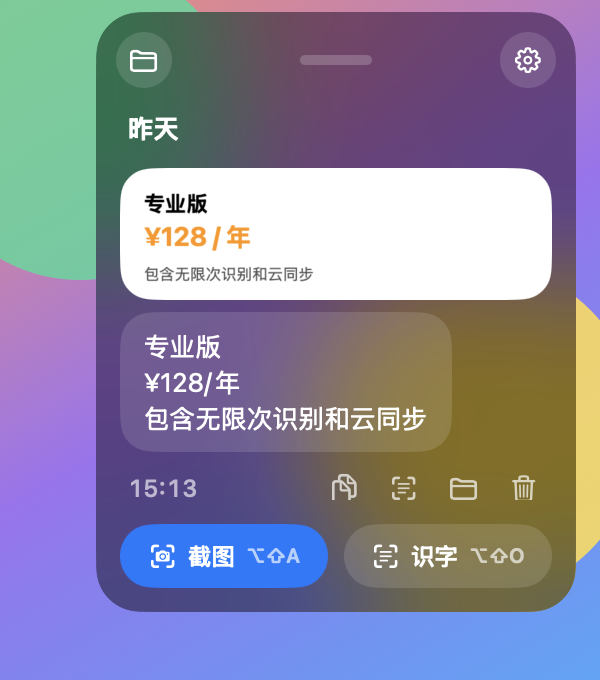
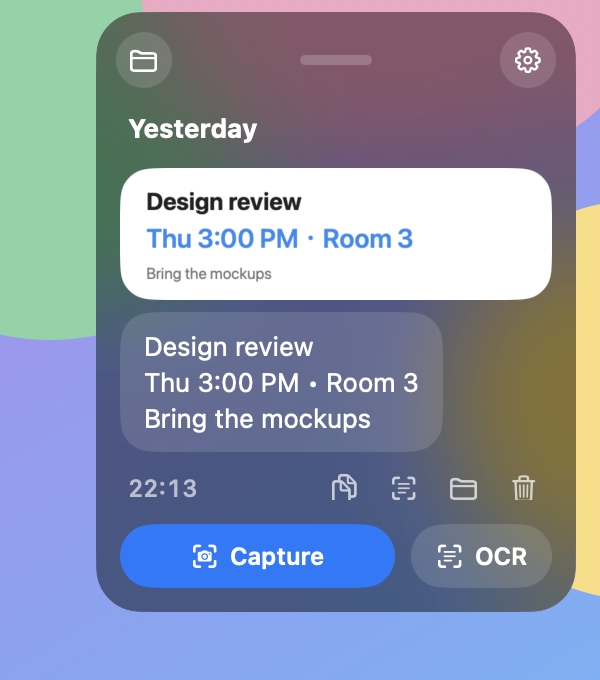
Use an English README and new sample screenshots
README.md is now in English, and the Chinese version moves to
README.zh-CN.md. The panel screenshots use a neutral meeting note as
the sample, in English for the English README and in Chinese for the
Chinese one. --preview now shows the panel on the primary screen so
screenshots come out at Retina resolution with an external display.

diff --git a/Sources/ShotShelf/DevSnapshot.swift b/Sources/ShotShelf/DevSnapshot.swift
@@ -24,14 +24,14 @@ enum DevSnapshot {
         print("Wrote \(output.path)")
     }
 
-    /// Shows the real glass panel (top-right of the main screen) plus a toast for `seconds`.
+    /// Shows the real glass panel (top-right of the primary screen) plus a toast for `seconds`.
     static func preview(seconds: Double, images: [URL], dark: Bool, toast: Bool = true) {
         NSApplication.shared.setActivationPolicy(.accessory)
         let store = makeStore(images: images)
         let host = NSHostingView(rootView: PanelView(store: store, actions: .noop))
         let panel = GlassPanel(content: host, size: PanelView.size)
         panel.appearance = NSAppearance(named: dark ? .darkAqua : .aqua)
-        if let frame = NSScreen.main?.visibleFrame {
+        if let frame = NSScreen.screens.first?.visibleFrame {
             panel.setFrameOrigin(NSPoint(x: frame.maxX - PanelView.size.width - 12,
                                          y: frame.maxY - PanelView.size.height - 6))
         }

diff --git a/README.md b/README.md
@@ -1,99 +1,95 @@
 # ShotShelf
 
-macOS 菜单栏截图小工具：截图自动进剪贴板，留在一个毛玻璃小面板里随时找回；截图时可以打码、识字（离线 OCR）。免费开源。
+English | [简体中文](README.zh-CN.md)
 
-A tiny macOS menu bar screenshot tool: captures go straight to the clipboard and stay in a frosted-glass history panel. Mosaic redaction and offline OCR (Apple Vision) right in the capture toolbar. English and Chinese UI. Free and open source (MIT).
+A tiny macOS menu bar screenshot tool. Every capture goes straight to the clipboard and stays in a frosted-glass history panel, so you can always find it again. Add mosaic to hide details or copy text with offline OCR right while you capture. Free and open source.
 
 <p>
-  <img src="docs/panel-light.png" width="300" alt="浅色模式的截图记录面板">
-  <img src="docs/panel-dark.png" width="300" alt="深色模式的截图记录面板">
+  <img src="docs/panel-light.png" width="300" alt="The screenshot history panel in light mode">
+  <img src="docs/panel-dark.png" width="300" alt="The screenshot history panel in dark mode">
 </p>
 
-## 功能
+## Features
 
-- **截图不再找不到**：截完自动复制到剪贴板，同时存进记录面板，像聊天记录一样按天排列
-- **截图时打码**：框选后点「打码」，拖出要遮住的地方就变成马赛克
-- **截图时识字**：点「识字」把选区里的文字识别出来并复制，中英文混排也能认，全程离线
-- **拖出去就能发**：记录里的图片可以直接拖到微信、桌面等地方
-- **几乎没有存在感**：只在菜单栏有一个图标，不占程序坞；内存约 30 MB
-- **中英文界面**：默认跟随系统语言，也可以在设置里随时切换，立即生效
-- 全局快捷键不需要辅助功能权限；带刘海的 MacBook 上图标被挡住时，用快捷键也能打开面板
+- **Never lose a screenshot**: every capture is copied to the clipboard and saved to the history panel, grouped by day like a chat
+- **Hide details as you capture**: select an area, click Mosaic and drag over anything you want to cover
+- **Copy text from the screen**: click OCR to recognize the text in the selection and copy it. Mixed Chinese and English text works, and everything stays on your Mac
+- **Drag to share**: drag any screenshot from the history into a chat, the desktop or any other app
+- **Stays out of your way**: just a menu bar icon, no Dock icon, and about 30 MB of memory
+- **English and Chinese UI**: follows your system language, and you can switch in Settings at any time without restarting
+- Global shortcuts don't need Accessibility permission. On MacBooks with a notch, use the shortcut to open the panel if the notch hides the menu bar icon
 
-## 下载安装
+## Download
 
-需要 macOS 14 或更新版本，Apple 芯片和 Intel 芯片的 Mac 都能用。
+Requires macOS 14 or later. Works on both Apple silicon and Intel Macs.
 
-1. 到 [Releases](https://github.com/stimQQ/ShotShelf/releases/latest) 下载最新的 `ShotShelf-x.y.z.dmg`
-2. 打开 dmg，把 ShotShelf 拖进「应用程序」
-3. 从「应用程序」里打开 ShotShelf，菜单栏右上角会出现一个取景框图标
+1. Download the latest `ShotShelf-x.y.z.dmg` from [Releases](https://github.com/stimQQ/ShotShelf/releases/latest)
+2. Open the dmg and drag ShotShelf into Applications
+3. Open ShotShelf from Applications. A viewfinder icon appears in the menu bar
 
-安装包已用 Developer ID 签名并经过苹果公证，双击就能打开。
+The app is signed with a Developer ID and notarized by Apple, so it opens with a double-click.
 
-## 从源码构建
+## Build from source
 
-需要 Xcode 或 Command Line Tools（Swift 5.9+）：
+Requires Xcode or the Command Line Tools (Swift 5.9 or later):
 
 ```bash
 git clone https://github.com/stimQQ/ShotShelf.git
 cd ShotShelf
-./build.sh                      # 产物在 build/ShotShelf.app
-open build/ShotShelf.app        # 想常驻可以拖进「应用程序」文件夹
+./build.sh                      # builds build/ShotShelf.app
+open build/ShotShelf.app        # drag it into Applications to keep it
 ```
 
-`build.sh` 会优先用本机钥匙串里的 Apple Development 证书签名，这样重新构建后录屏权限还在；没有证书时退回 ad-hoc 签名，
-每次重新构建后都要在系统设置里把 ShotShelf 的开关关掉再打开一次。
+`build.sh` signs with an Apple Development certificate from your keychain when it finds one, so screen recording permission survives rebuilds. Without a certificate it falls back to ad-hoc signing, and you need to turn ShotShelf off and on again in System Settings after every rebuild.
 
-## 第一次使用
+## First run
 
-第一次截图时，按面板上的提示在「系统设置 › 隐私与安全性 › 录屏与系统录音」里打开 ShotShelf，然后点面板里的「重新启动」。
-macOS 15 可能还会弹窗询问是否允许 ShotShelf 直接访问屏幕，选允许即可。
+The first time you capture, follow the prompt in the panel: open System Settings › Privacy & Security › Screen & System Audio Recording, turn on ShotShelf, then click Relaunch in the panel. macOS 15 may also ask whether ShotShelf can access your screen directly. Choose Allow.
 
-## 用法
+## Usage
 
-| 操作 | 结果 |
+| Action | Result |
 |---|---|
-| `⌥⇧A` | 截图：框选后出现工具条，可以打码、识字，点「完成」复制图片 |
-| `⌥⇧O` | 截图识字：框选后直接识别文字并复制，不出工具条 |
-| `⌥⇧S` | 打开 / 关闭截图记录 |
-| 点菜单栏图标 | 打开截图记录：点图片复制，拖出去发送 |
-| 右键菜单栏图标 | 快捷菜单 |
+| `⌥⇧A` | Capture: select an area, then use the toolbar to add mosaic or copy text. Click Done to copy the image |
+| `⌥⇧O` | Capture Text: select an area and its text is recognized and copied right away, without the toolbar |
+| `⌥⇧S` | Open or close the screenshot history |
+| Click the menu bar icon | Open the history. Click an image to copy it, or drag it out to share |
+| Right-click the menu bar icon | Quick menu |
 
-截图界面（按下快捷键时屏幕会定格）：
+On the capture screen (the display freezes when you press the shortcut):
 
-- 拖动框选区域；不拖直接单击，会选中鼠标下面的整个窗口
-- 选好后可以拖动选区、拖八个圆点调整大小
-- **打码**：打开后在选区里拖动，框住的地方变成马赛克，`⌘Z` 撤销
-- **识字**：识别选区里的文字并复制
-- **完成**：复制图片，也可以按回车、`⌘C` 或双击选区
-- `Esc` 取消；右键清掉当前选区重新选
+- Drag to select an area. Click without dragging to select the whole window under the pointer
+- After selecting, drag the selection to move it, or drag the eight handles to resize it
+- **Mosaic**: turn it on and drag inside the selection to cover areas. `⌘Z` undoes the last mosaic
+- **OCR**: recognize the text in the selection and copy it
+- **Done**: copy the image. You can also press Return, press `⌘C` or double-click the selection
+- `Esc` cancels. Right-click to clear the selection and start over
 
-截图记录面板：左上角打开截图文件夹，右上角齿轮是设置（语言 / Language、开机自动启动、退出）。拖顶部的小横条可以移动面板，它会记住位置。
+In the history panel, the top-left button opens the screenshots folder and the gear opens Settings (Language / 语言, Launch at Login, Quit). Drag the handle at the top to move the panel. It remembers where you put it.
 
-截图后不会自动识别文字，只有点「识字」或在记录里点「复制文字」时才识别。
+Text is never recognized automatically after a capture. It only happens when you click OCR or choose Copy Text in the history.
 
-## 数据和隐私
+## Data and privacy
 
-- 截图存在 `~/Pictures/ShotShelf/`，记录索引在 `~/Library/Application Support/ShotShelf/index.json`
-- 文字识别用的是系统自带的 Vision 框架，在本机完成
-- 不联网，不收集任何数据
+- Screenshots are saved in `~/Pictures/ShotShelf/`, and the history index in `~/Library/Application Support/ShotShelf/index.json`
+- Text recognition uses Apple's built-in Vision framework and runs on your Mac
+- ShotShelf never connects to the internet and collects no data
 
-## 开发
+## Development
 
 ```bash
 swift build
-.build/debug/ShotShelf --ocr some.png                                   # 打印识别结果
-SHOTSHELF_DIR=/tmp/x .build/debug/ShotShelf --snapshot out.png a.png   # 离屏渲染记录面板
-.build/debug/ShotShelf --preview 5 a.png                                # 在屏幕右上角显示几秒真实的毛玻璃面板
-.build/debug/ShotShelf --grab /tmp/x                                    # 定格所有屏幕并测耗时
-.build/debug/ShotShelf --overlay-snapshot out.png full-screen@2x.png    # 离屏渲染截图界面（带打码和工具条）
+.build/debug/ShotShelf --ocr some.png                                   # print the recognized text
+SHOTSHELF_DIR=/tmp/x .build/debug/ShotShelf --snapshot out.png a.png   # render the history panel offscreen
+.build/debug/ShotShelf --preview 5 a.png                                # show the real glass panel at the top right of the primary screen for a few seconds
+.build/debug/ShotShelf --grab /tmp/x                                    # freeze every display and time it
+.build/debug/ShotShelf --overlay-snapshot out.png full-screen@2x.png    # render the capture screen offscreen (with mosaic and toolbar)
 ```
 
-`SHOTSHELF_DIR` 指向一个临时目录，调试时就不会动到真实的截图记录。
+Add `--en` or `--zh` to preview a language without saving the choice, and `--dark` for dark mode. Point `SHOTSHELF_DIR` at a scratch folder so debugging never touches your real screenshot history.
 
-发布安装包用 `./release.sh`：构建通用二进制、用 Developer ID 签名、提交苹果公证，产物是 `dist/ShotShelf-<版本>.dmg`。
-需要钥匙串里有 Developer ID Application 证书，以及一个 notarytool 凭据（用法见脚本开头的注释）。
-应用图标由 `swift tools/make-icon.swift` 生成。
+To build a release, run `./release.sh`. It builds a universal binary, signs it with a Developer ID, submits it to Apple for notarization and writes `dist/ShotShelf-<version>.dmg`. You need a Developer ID Application certificate in your keychain and a notarytool profile (see the comments at the top of the script). The app icon is generated by `swift tools/make-icon.swift`.
 
-## 许可证
+## License
 
 [MIT](LICENSE)

diff --git a/README.zh-CN.md b/README.zh-CN.md
@@ -1,0 +1,99 @@
+# ShotShelf
+
+[English](README.md) | 简体中文
+
+macOS 菜单栏截图小工具：截图自动进剪贴板，留在一个毛玻璃小面板里随时找回；截图时可以打码、识字（离线 OCR）。免费开源。
+
+<p>
+  <img src="docs/panel-light.zh.png" width="300" alt="浅色模式的截图记录面板">
+  <img src="docs/panel-dark.zh.png" width="300" alt="深色模式的截图记录面板">
+</p>
+
+## 功能
+
+- **截图不再找不到**：截完自动复制到剪贴板，同时存进记录面板，像聊天记录一样按天排列
+- **截图时打码**：框选后点「打码」，拖出要遮住的地方就变成马赛克
+- **截图时识字**：点「识字」把选区里的文字识别出来并复制，中英文混排也能认，全程离线
+- **拖出去就能发**：记录里的图片可以直接拖到微信、桌面等地方
+- **几乎没有存在感**：只在菜单栏有一个图标，不占程序坞；内存约 30 MB
+- **中英文界面**：默认跟随系统语言，也可以在设置里随时切换，立即生效
+- 全局快捷键不需要辅助功能权限；带刘海的 MacBook 上图标被挡住时，用快捷键也能打开面板
+
+## 下载安装
+
+需要 macOS 14 或更新版本，Apple 芯片和 Intel 芯片的 Mac 都能用。
+
+1. 到 [Releases](https://github.com/stimQQ/ShotShelf/releases/latest) 下载最新的 `ShotShelf-x.y.z.dmg`
+2. 打开 dmg，把 ShotShelf 拖进「应用程序」
+3. 从「应用程序」里打开 ShotShelf，菜单栏右上角会出现一个取景框图标
+
+安装包已用 Developer ID 签名并经过苹果公证，双击就能打开。
+
+## 从源码构建
+
+需要 Xcode 或 Command Line Tools（Swift 5.9+）：
+
+```bash
+git clone https://github.com/stimQQ/ShotShelf.git
+cd ShotShelf
+./build.sh                      # 产物在 build/ShotShelf.app
+open build/ShotShelf.app        # 想常驻可以拖进「应用程序」文件夹
+```
+
+`build.sh` 会优先用本机钥匙串里的 Apple Development 证书签名，这样重新构建后录屏权限还在；没有证书时退回 ad-hoc 签名，
+每次重新构建后都要在系统设置里把 ShotShelf 的开关关掉再打开一次。
+
+## 第一次使用
+
+第一次截图时，按面板上的提示在「系统设置 › 隐私与安全性 › 录屏与系统录音」里打开 ShotShelf，然后点面板里的「重新启动」。
+macOS 15 可能还会弹窗询问是否允许 ShotShelf 直接访问屏幕，选允许即可。
+
+## 用法
+
+| 操作 | 结果 |
+|---|---|
+| `⌥⇧A` | 截图：框选后出现工具条，可以打码、识字，点「完成」复制图片 |
+| `⌥⇧O` | 截图识字：框选后直接识别文字并复制，不出工具条 |
+| `⌥⇧S` | 打开 / 关闭截图记录 |
+| 点菜单栏图标 | 打开截图记录：点图片复制，拖出去发送 |
+| 右键菜单栏图标 | 快捷菜单 |
+
+截图界面（按下快捷键时屏幕会定格）：
+
+- 拖动框选区域；不拖直接单击，会选中鼠标下面的整个窗口
+- 选好后可以拖动选区、拖八个圆点调整大小
+- **打码**：打开后在选区里拖动，框住的地方变成马赛克，`⌘Z` 撤销
+- **识字**：识别选区里的文字并复制
+- **完成**：复制图片，也可以按回车、`⌘C` 或双击选区
+- `Esc` 取消；右键清掉当前选区重新选
+
+截图记录面板：左上角打开截图文件夹，右上角齿轮是设置（语言 / Language、开机自动启动、退出）。拖顶部的小横条可以移动面板，它会记住位置。
+
+截图后不会自动识别文字，只有点「识字」或在记录里点「复制文字」时才识别。
+
+## 数据和隐私
+
+- 截图存在 `~/Pictures/ShotShelf/`，记录索引在 `~/Library/Application Support/ShotShelf/index.json`
+- 文字识别用的是系统自带的 Vision 框架，在本机完成
+- 不联网，不收集任何数据
+
+## 开发
+
+```bash
+swift build
+.build/debug/ShotShelf --ocr some.png                                   # 打印识别结果
+SHOTSHELF_DIR=/tmp/x .build/debug/ShotShelf --snapshot out.png a.png   # 离屏渲染记录面板
+.build/debug/ShotShelf --preview 5 a.png                                # 在主屏右上角显示几秒真实的毛玻璃面板
+.build/debug/ShotShelf --grab /tmp/x                                    # 定格所有屏幕并测耗时
+.build/debug/ShotShelf --overlay-snapshot out.png full-screen@2x.png    # 离屏渲染截图界面（带打码和工具条）
+```
+
+加 `--en` 或 `--zh` 可以临时预览某种语言（不会保存这个选择），加 `--dark` 是深色模式。`SHOTSHELF_DIR` 指向一个临时目录，调试时就不会动到真实的截图记录。
+
+发布安装包用 `./release.sh`：构建通用二进制、用 Developer ID 签名、提交苹果公证，产物是 `dist/ShotShelf-<版本>.dmg`。
+需要钥匙串里有 Developer ID Application 证书，以及一个 notarytool 凭据（用法见脚本开头的注释）。
+应用图标由 `swift tools/make-icon.swift` 生成。
+
+## 许可证
+
+[MIT](LICENSE)
